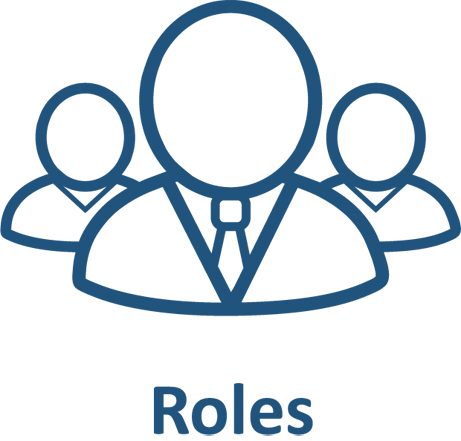
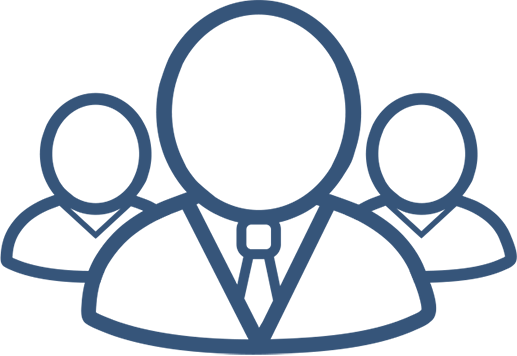
Mejoro barra de búsqueda de solicitudes
*Mejoro barra de búsqueda de solicitudes.
*Agrego iconos de Usuarios y Roles

diff --git a/resources/views/solicitudes/index.blade.php b/resources/views/solicitudes/index.blade.php
@@ -21,85 +21,79 @@
 @endif
 
 <!-- barra para buscar solicitudes -->
-<div class="col-md-12 ml-auto">
-  <h1>
-    <div class="form-inline pull-right">
-      <form  method="GET">
-        <div class="form-group">
-          <label><h6>ID:</h6></label>
-          <input type="text" name="id_solicitud" class="form-control col-md-1" id="id_solicitud" autocomplete="off" value="{{$id_solicitud}}" >
-          &nbsp
-          <label><h6>Equipo:</h6></label>
-          <input type="text" name="id_equipo" class="form-control col-md-1" id="id_equipo" autocomplete="off" value="{{$id_equipo}}" >
-          &nbsp
-          <label><h6>Titulo:</h6></label>
-          <input type="text" name="titulo" class="form-control col-md-1" id="titulo" autocomplete="off" value="{{$titulo}}" >
-          &nbsp
-          <div class="form-group">
-            <label><h6>Tipo:</h6></label>
-            <select class="form-control" name="id_tipo_solicitud"  id="id_tipo_solicitud">
-              <option value="0">{{'Todos'}} </option>
-                @foreach($tiposSolicitudes as $tipoSolicitud)
-                  @if($tipoSolicitud->id == $id_tipo_solicitud)
-                    <option value="{{$tipoSolicitud->id}}" selected>{{$tipoSolicitud->nombre}} </option>
-                  @else
-                    <option value="{{$tipoSolicitud->id}}">{{$tipoSolicitud->nombre}} </option>
-                  @endif
-                @endforeach
-            </select>
-          </div>
-          &nbsp
-          <div class="form-group">
-            <label><h6>Estado:</h6></label>
-            <select class="form-control" name="id_estado"  id="id_estado">
-              <option value="0">{{'Todos'}} </option>
-                @foreach($estados as $estado)
-                  @if($estado->id == $id_estado)
-                    <option value="{{$estado->id}}" selected>{{$estado->nombre}} </option>
-                  @else
-                    <option value="{{$estado->id}}">{{$estado->nombre}} </option>
-                  @endif
-                @endforeach
-            </select>
-          </div>
-          &nbsp
-          <div class="form-group">
-            <label><h6>Encargado:</h6></label>
-            <select class="form-control" name="id_encargado"  id="id_encargado">
-              <option value="0">{{'Todos'}} </option>
-                @foreach($usuarios as $usuario)
-                  @foreach($model_as_roles as $model_as_rol)
-                    @if($model_as_rol->role_id == 22 and $usuario->id == $model_as_rol->model_id)
-                      @if($usuario->id == $id_encargado)
-                        <option value="{{$usuario->id}}" selected>{{$usuario->name}} </option>
-                      @else
-                        <option value="{{$usuario->id}}">{{$usuario->name}} </option>
-                      @endif
-                    @endif
-                  @endforeach
-                @endforeach
-            </select>
-          </div>
-          &nbsp
-          <div class="form-group">
-            <label><h6>Solicitante:</h6></label>
-            <select class="form-control" name="id_solicitante"  id="id_solicitante">
-              <option value="0">{{'Todos'}} </option>
-                @foreach($usuarios as $usuario)
-                  @if($usuario->id == $id_solicitante)
-                    <option value="{{$usuario->id}}" selected>{{$usuario->name}} </option>
-                  @else
-                    <option value="{{$usuario->id}}">{{$usuario->name}} </option>
-                  @endif
-                @endforeach
-            </select>
-          </div>
-          &nbsp
-          <button type="submit" class="btn btn-default"> Buscar</button>
-        </div>
-      </form>
+<div class="form-group">
+  <form  method="GET">
+    <div style="display: inline-block;">
+      <label for="id_solicitud" style="display: block; margin-bottom: 5px;"><h6>ID:</h6></label>
+      <input type="text" class="form-control" name="id_solicitud" id="id_solicitud" autocomplete="off" value="{{$id_solicitud}}">
     </div>
-  </h1>            
+    <div style="display: inline-block;">
+      <label for="id_equipo" style="display: block; margin-bottom: 5px;"><h6>Equipo:</h6></label>
+      <input type="text" class="form-control" name="id_equipo" id="id_equipo" autocomplete="off" value="{{$id_equipo}}">
+    </div>
+    <div style="display: inline-block;">
+      <label for="titulo" style="display: block; margin-bottom: 5px;"><h6>Titulo:</h6></label>
+      <input type="text" class="form-control" name="titulo" id="titulo" autocomplete="off" value="{{$titulo}}">
+    </div>
+    <div style="display: inline-block;">
+      <label><h6>Tipo:</h6></label>
+      <select class="form-control" name="id_tipo_solicitud"  id="id_tipo_solicitud">
+        <option value="0">{{'Todos'}} </option>
+        @foreach($tiposSolicitudes as $tipoSolicitud)
+          @if($tipoSolicitud->id == $id_tipo_solicitud)
+            <option value="{{$tipoSolicitud->id}}" selected>{{$tipoSolicitud->nombre}} </option>
+          @else
+            <option value="{{$tipoSolicitud->id}}">{{$tipoSolicitud->nombre}} </option>
+          @endif
+        @endforeach
+      </select>
+    </div>
+    <div style="display: inline-block;">
+      <label><h6>Estado:</h6></label>
+      <select class="form-control" name="id_estado"  id="id_estado">
+        <option value="0">{{'Todos'}} </option>
+        @foreach($estados as $estado)
+          @if($estado->id == $id_estado)
+            <option value="{{$estado->id}}" selected>{{$estado->nombre}} </option>
+          @else
+            <option value="{{$estado->id}}">{{$estado->nombre}} </option>
+          @endif
+        @endforeach
+      </select>
+    </div>
+    <div style="display: inline-block;">
+      <label><h6>Encargado:</h6></label>
+      <select class="form-control" name="id_encargado"  id="id_encargado">
+        <option value="0">{{'Todos'}} </option>
+        @foreach($usuarios as $usuario)
+          @foreach($model_as_roles as $model_as_rol)
+            @if($model_as_rol->role_id == 22 and $usuario->id == $model_as_rol->model_id)
+              @if($usuario->id == $id_encargado)
+                <option value="{{$usuario->id}}" selected>{{$usuario->name}} </option>
+              @else
+                <option value="{{$usuario->id}}">{{$usuario->name}} </option>
+              @endif
+            @endif
+          @endforeach
+        @endforeach
+      </select>
+    </div>
+    <div style="display: inline-block;">
+      <label><h6>Solicitante:</h6></label>
+      <select class="form-control" name="id_solicitante"  id="id_solicitante">
+        <option value="0">{{'Todos'}} </option>
+        @foreach($usuarios as $usuario)
+          @if($usuario->id == $id_solicitante)
+            <option value="{{$usuario->id}}" selected>{{$usuario->name}} </option>
+          @else
+            <option value="{{$usuario->id}}">{{$usuario->name}} </option>
+          @endif
+        @endforeach
+      </select>
+    </div>
+    &nbsp
+    <button type="submit" class="btn btn-default"> Buscar</button>
+  </form>          
 </div>
 <!-- tabla de datos -->
 

diff --git a/resources/views/home/parametros_mantenimiento.blade.php b/resources/views/home/parametros_mantenimiento.blade.php
@@ -37,12 +37,12 @@
         <div class="col-md-3" aling="center">
             <br>
             <a  href='/usuarios'> <img  src="{{ URL::to('/img/usuarios.png') }}" height="140"></a>
-
+            <h3 style="color: #3b557a">Usuarios</h3>
         </div>
         <div class="col-md-3" aling="center">
             <br>
             <a  href='roles'> <img  src="{{ URL::to('/img/roles.png') }}" height="140"></a>
-
+            <h3 style="color: #3b557a">Roles</h3>
         </div>
 
     </div>
